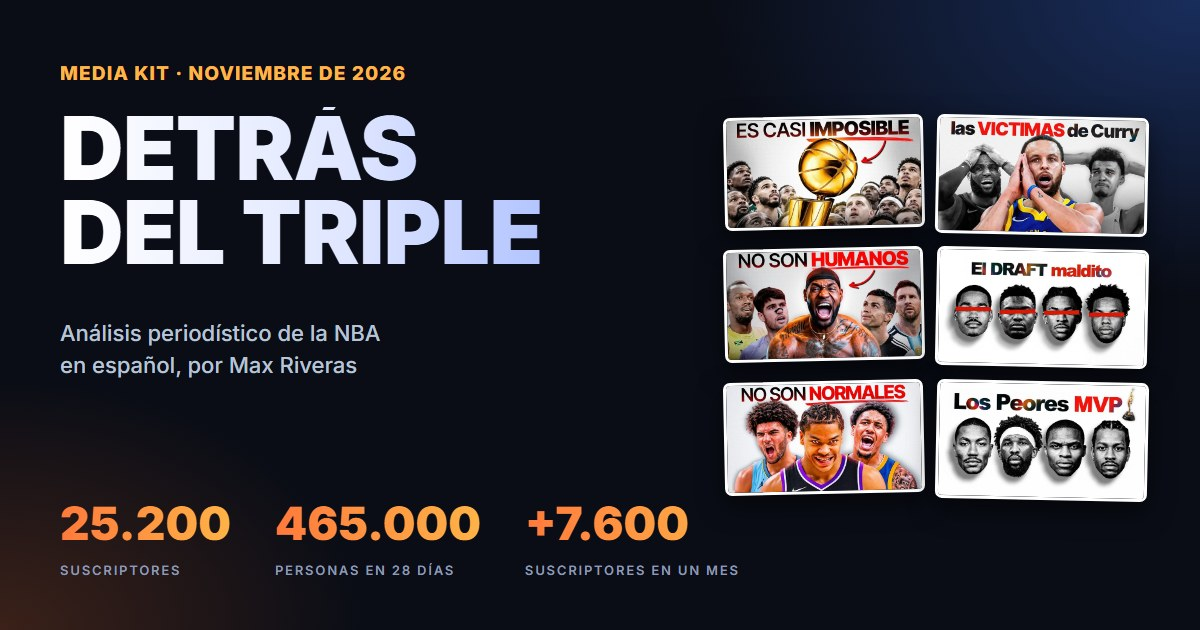
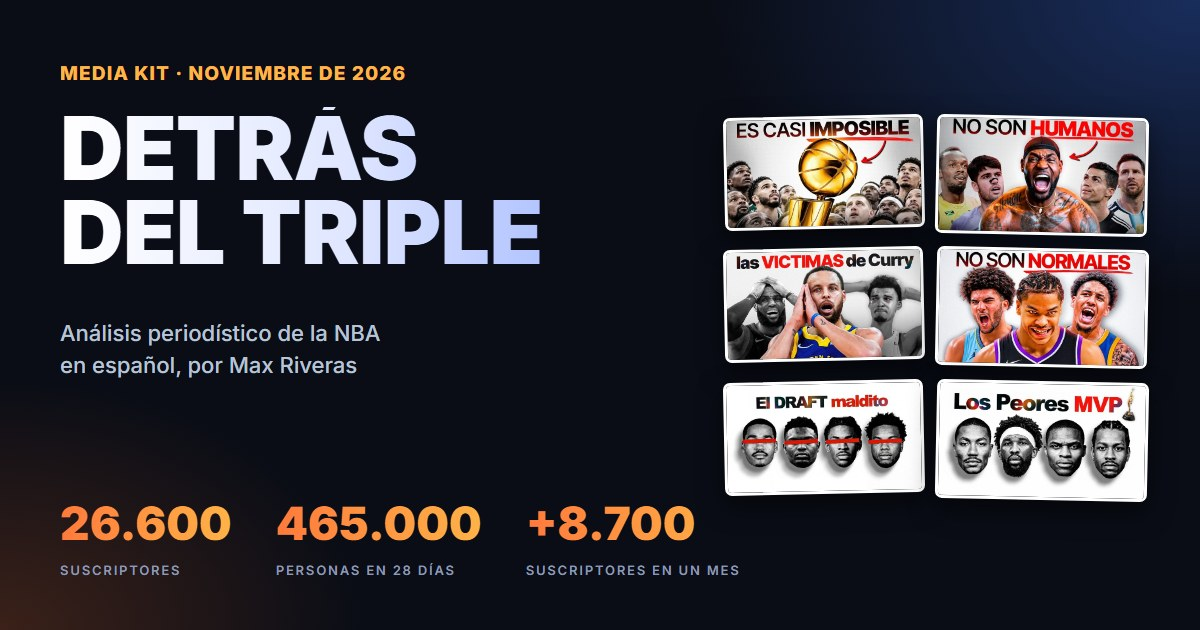
chore(mediakit): +8.700 suscriptores en un mes (desde el 24 oct) e imagenes para compartir con 26.600

diff --git a/mediakit-definitivo/en/index.html b/mediakit-definitivo/en/index.html
@@ -21,11 +21,11 @@
     <meta property="og:url" content="https://maxriveras.com/mediakit-definitivo/en/">
     <meta property="og:title" content="Detrás del Triple · Media kit | Spanish-language NBA analysis">
     <meta property="og:description"
-        content="Spanish-language NBA analysis: 465,000 unique viewers in 28 days, 245,409 hours watched on YouTube since October 2025 and +7,600 subscribers in a month. Open to brand partnerships.">
+        content="Spanish-language NBA analysis: 465,000 unique viewers in 28 days, 245,409 hours watched on YouTube since October 2025 and +8,700 subscribers in a month. Open to brand partnerships.">
     <meta property="og:image" content="https://maxriveras.com/mediakit-definitivo/fotos/og-mediakit-en.jpg">
     <meta property="og:image:width" content="1200">
     <meta property="og:image:height" content="630">
-    <meta property="og:image:alt" content="Detrás del Triple media kit, November 2026: 25,200 subscribers, 465,000 unique viewers in 28 days and +7,600 subscribers in a month">
+    <meta property="og:image:alt" content="Detrás del Triple media kit, November 2026: 26,600 subscribers, 465,000 unique viewers in 28 days and +8,700 subscribers in a month">
     <meta property="og:locale" content="en_US">
     <meta property="og:locale:alternate" content="es_ES">
 
@@ -66,7 +66,7 @@
                         <span class="highlight">28 years</span> of viewing time. In-depth analysis, built on data and
                         storytelling, for an audience that doesn't scroll past.
                     </p>
-                    <p class="hero-momentum">And growing fast: <strong>+7,600 subscribers</strong> in one month,
+                    <p class="hero-momentum">And growing fast: <strong>+8,700 subscribers</strong> in one month,
                         <strong>465,000 unique viewers</strong> in 28 days (almost triple a month earlier) and a video with
                         <strong>over 400,000 views</strong> in its first two weeks.</p>
                     <p class="hero-also">Plus original Reels and Shorts on Instagram, TikTok and Facebook.</p>
@@ -110,7 +110,7 @@
                 <div class="metric-bar-item">
                     <div class="metric-bar-value">26,600</div>
                     <div class="metric-bar-label">Subscribers</div>
-                    <div class="metric-bar-delta">+7,600 since Oct 19</div>
+                    <div class="metric-bar-delta">+8,700 since Oct 24</div>
                     <span class="scope scope--yt">YouTube · Nov 24, 2026</span>
                 </div>
                 <div class="metric-bar-item">

diff --git a/mediakit-definitivo/index.html b/mediakit-definitivo/index.html
@@ -21,11 +21,11 @@
     <meta property="og:url" content="https://maxriveras.com/mediakit-definitivo/">
     <meta property="og:title" content="Detrás del Triple · Media kit | Análisis NBA en español">
     <meta property="og:description"
-        content="Análisis NBA en español: 465.000 personas en 28 días, 245.409 horas vistas en YouTube desde octubre de 2025 y +7.600 suscriptores en un mes. Abierto a colaboraciones con marcas.">
+        content="Análisis NBA en español: 465.000 personas en 28 días, 245.409 horas vistas en YouTube desde octubre de 2025 y +8.700 suscriptores en un mes. Abierto a colaboraciones con marcas.">
     <meta property="og:image" content="https://maxriveras.com/mediakit-definitivo/fotos/og-mediakit.jpg">
     <meta property="og:image:width" content="1200">
     <meta property="og:image:height" content="630">
-    <meta property="og:image:alt" content="Detrás del Triple, media kit de noviembre de 2026: 25.200 suscriptores, 465.000 personas en 28 días y +7.600 suscriptores en un mes">
+    <meta property="og:image:alt" content="Detrás del Triple, media kit de noviembre de 2026: 26.600 suscriptores, 465.000 personas en 28 días y +8.700 suscriptores en un mes">
     <meta property="og:locale" content="es_ES">
     <meta property="og:locale:alternate" content="en_US">
 
@@ -66,7 +66,7 @@
                         <span class="highlight">28 años</span> de visionado. Análisis en profundidad, con datos y con
                         historia, para una audiencia que no pasa de largo.
                     </p>
-                    <p class="hero-momentum">Y en plena subida: <strong>+7.600 suscriptores</strong> en un mes,
+                    <p class="hero-momentum">Y en plena subida: <strong>+8.700 suscriptores</strong> en un mes,
                         <strong>465.000 personas</strong> en 28 días (casi el triple que hace un mes) y un vídeo con
                         <strong>más de 400.000 vistas</strong> en sus dos primeras semanas.</p>
                     <p class="hero-also">Y además, reels y shorts propios en Instagram, TikTok y Facebook.</p>
@@ -110,7 +110,7 @@
                 <div class="metric-bar-item">
                     <div class="metric-bar-value">26.600</div>
                     <div class="metric-bar-label">Suscriptores</div>
-                    <div class="metric-bar-delta">+7.600 desde el 19 oct</div>
+                    <div class="metric-bar-delta">+8.700 desde el 24 oct</div>
                     <span class="scope scope--yt">YouTube · 24 nov 2026</span>
                 </div>
                 <div class="metric-bar-item">
